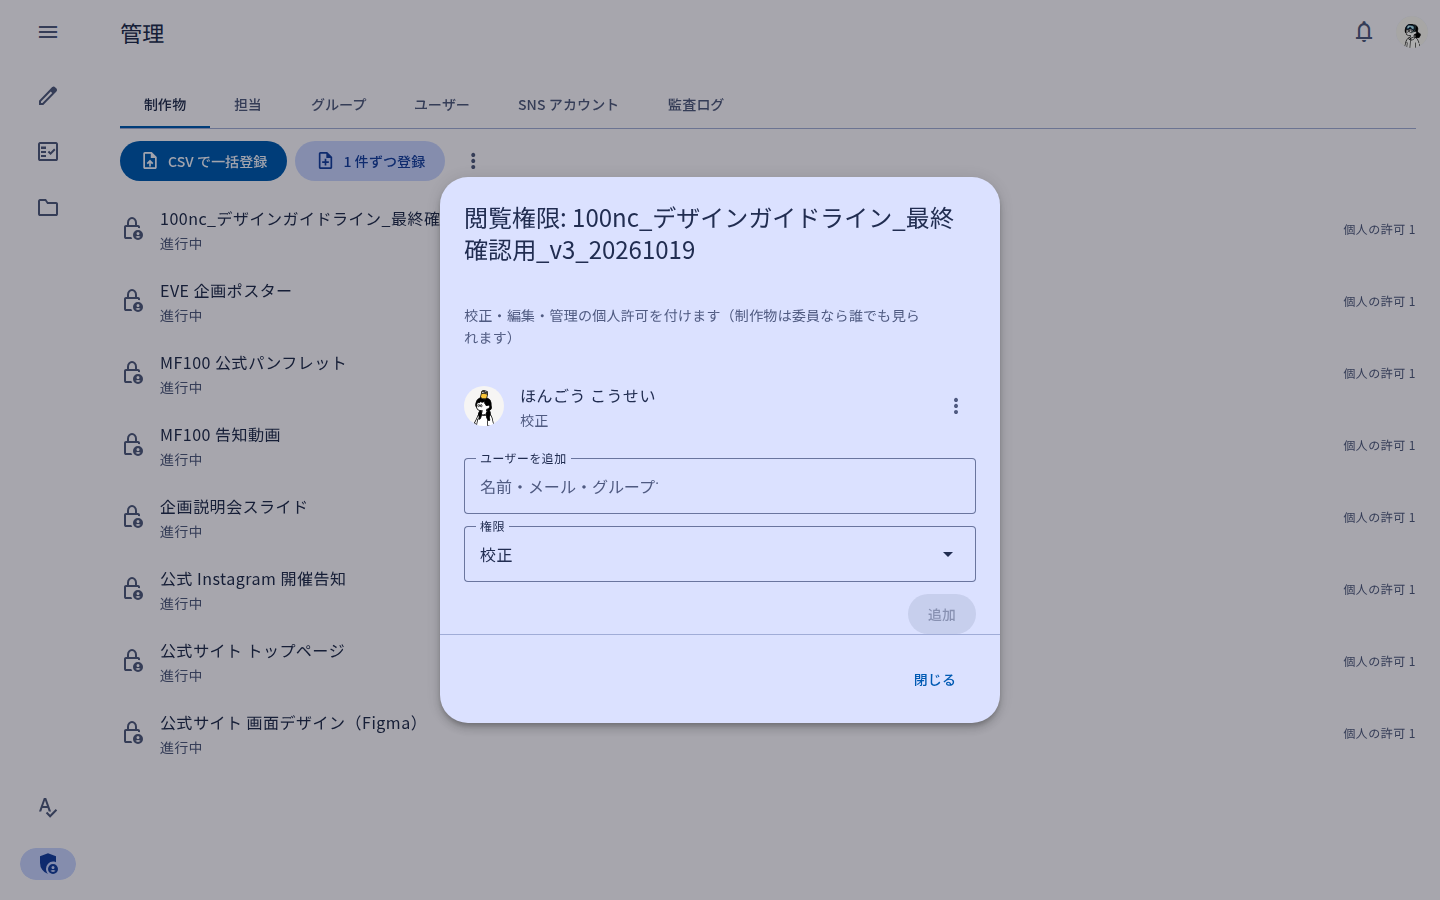
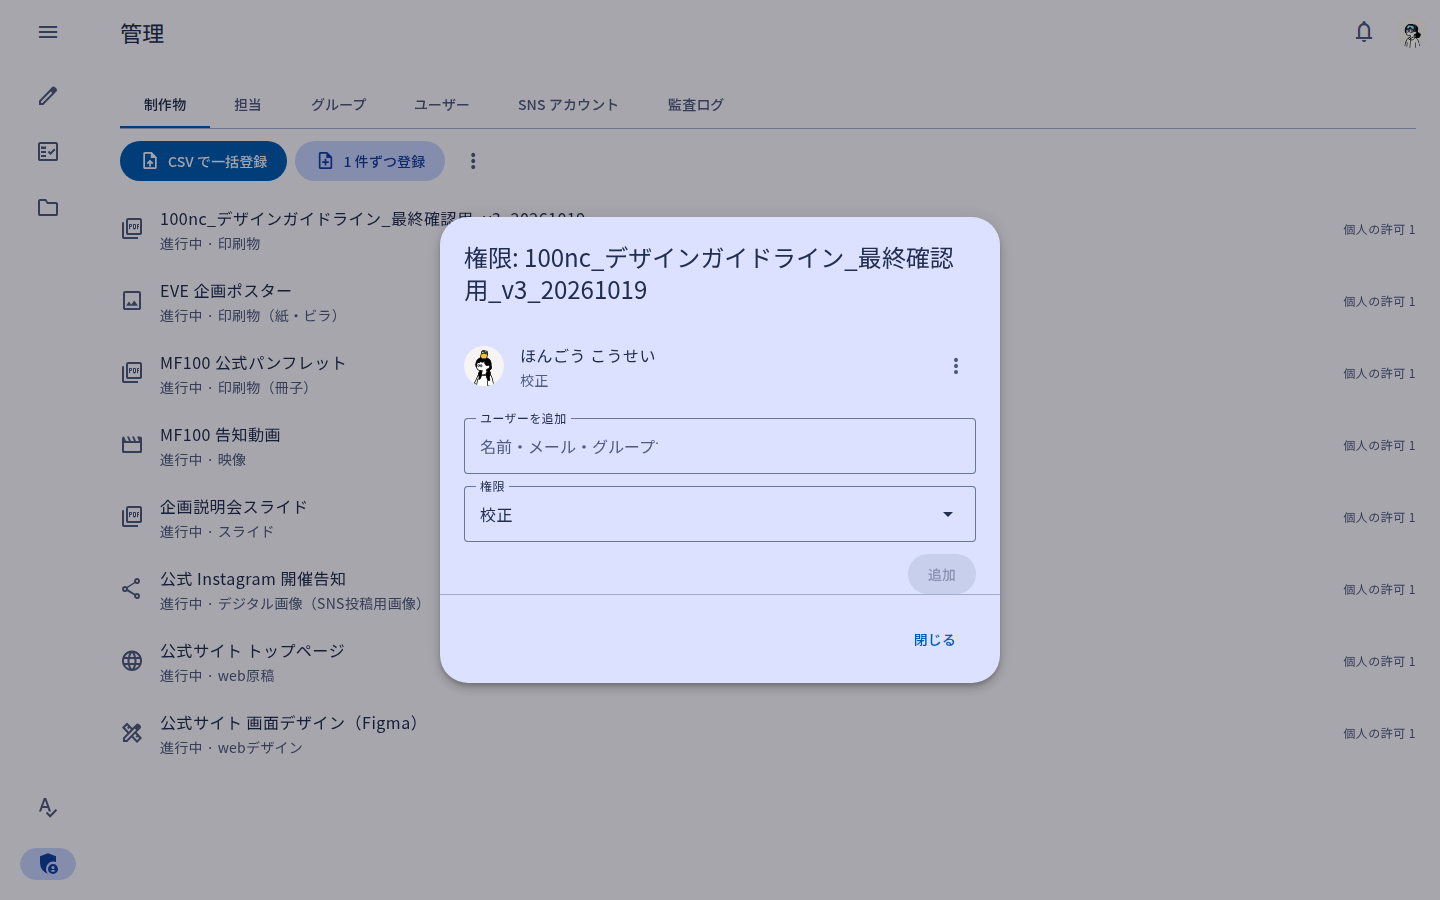
fix(web): ACL UI 文言・管理リストアイコン・PR191 スクショ再撮
- ダイアログ見出しを「権限: <題名>」、AclPanel/情報タブ/管理の「閲覧」表記を除去
- 説明文パラagraphを削除、管理リストは媒体アイコン（lock_person/鍵を廃止）
- adminWorks に mediaType を返す、stack-pr-acl-ui-capture で before/after 再撮

diff --git a/apps/web/e2e/specs/stack-pr-acl-ui-capture.spec.ts b/apps/web/e2e/specs/stack-pr-acl-ui-capture.spec.ts
@@ -1,0 +1,119 @@
+import { mkdirSync } from "node:fs";
+import { dirname, resolve } from "node:path";
+import { fileURLToPath } from "node:url";
+import type { Page } from "@playwright/test";
+import { expect, PAMPHLET, test, WORKS_ENTRY } from "../support/app";
+
+const here = dirname(fileURLToPath(import.meta.url));
+
+const PHASE = process.env.STACK_PR_ACL_PHASE ?? "after";
+const OUT =
+  process.env.OUT_DIR ??
+  resolve(here, `../../../../docs/stack-pr-screenshots/acl-104-106/pr191/${PHASE}`);
+
+mkdirSync(OUT, { recursive: true });
+
+const ADMIN_WORKS_AFTER = 'm3e-action-list[aria-label="制作物ごとの権限"] m3e-list-action';
+const ADMIN_WORKS_BEFORE =
+  'm3e-action-list[aria-label="制作物ごとの閲覧権限"] m3e-list-action';
+
+async function waitForDialogFullyOpen(page: Page) {
+  await page.locator("m3e-dialog[open]").waitFor({ state: "visible" });
+  await page.evaluate(async () => {
+    const deadline = performance.now() + 8000;
+    const ok = (el: Element | null) => {
+      if (!el) return false;
+      const s = getComputedStyle(el as HTMLElement);
+      return s.visibility !== "hidden" && s.display !== "none" && Number(s.opacity) >= 0.99;
+    };
+    while (performance.now() < deadline) {
+      const d = document.querySelector("m3e-dialog[open]");
+      if (ok(d)) {
+        const panel = d?.shadowRoot?.querySelector(".container, .dialog, [part='container']") ?? d;
+        if (ok(panel)) return;
+      }
+      await new Promise((r) => requestAnimationFrame(r));
+    }
+    throw new Error("dialog did not reach full opacity");
+  });
+}
+
+async function shot(page: Page, app: { settle: () => Promise<void> }, file: string) {
+  await app.settle();
+  await page.screenshot({ path: resolve(OUT, file) });
+}
+
+/** PR #191 UI: ACL ダイアログ・管理リスト・制作物一覧・編集フォーム・情報タブ */
+test.describe("stack PR acl UI screenshots", () => {
+  test.use({ reducedMotion: "reduce" });
+
+  test(`surfaces ${PHASE}`, async ({ app, page }) => {
+    await app.start();
+
+    const adminWorks = PHASE === "after" ? ADMIN_WORKS_AFTER : ADMIN_WORKS_BEFORE;
+
+    await app.signInAs("mock-nogiku-admin");
+    await app.go("/works");
+    await app.settle();
+    if (PHASE === "after") {
+      const row = page.locator(WORKS_ENTRY).first();
+      await expect(
+        row.locator("m3e-icon[name='lock']").or(row.locator(".works-table__lock")),
+      ).toHaveCount(0);
+    }
+    await shot(page, app, "02-works-list.png");
+
+    await app.go("/admin");
+    await page.waitForSelector(adminWorks);
+    await shot(page, app, "13-admin-works.png");
+
+    await page.locator(adminWorks).first().click();
+    await page.waitForSelector("m3e-dialog[open] .acl");
+    const header = page.locator("m3e-dialog[open] [slot='header']");
+    if (PHASE === "after") {
+      await expect(header).toContainText("権限:");
+      await expect(header).not.toContainText("閲覧");
+      const acl = page.locator("m3e-dialog[open] .acl");
+      await expect(acl).not.toContainText("制作物は委員なら誰でも");
+      await expect(page.locator("m3e-dialog[open] m3e-icon[name='lock']")).toHaveCount(0);
+    } else {
+      await expect(header).toContainText("閲覧権限");
+    }
+    await waitForDialogFullyOpen(page);
+    await shot(page, app, "12-acl.png");
+    await page
+      .locator('m3e-dialog[open] [slot="actions"] m3e-button', { hasText: "閉じる" })
+      .click();
+    await app.settle();
+
+    await app.signInAs("mock-nogiku-manager");
+    await app.openWork(PAMPHLET);
+    await app.drawer("情報");
+    await page.locator(".drawer__body").evaluate((el, phase) => {
+      const sel =
+        phase === "after"
+          ? ".info-tab__section[aria-label='権限']"
+          : ".info-tab__section[aria-label='閲覧権限']";
+      el.querySelector(sel)?.scrollIntoView({ block: "start" });
+    }, PHASE);
+    if (PHASE === "after") {
+      await expect(page.locator(".info-tab__section[aria-label='権限']")).toBeVisible();
+      await expect(page.getByRole("heading", { name: "閲覧権限" })).toHaveCount(0);
+    } else {
+      await expect(page.getByRole("heading", { name: "閲覧権限" })).toBeVisible();
+    }
+    await shot(page, app, "06-editor-info.png");
+
+    await page.getByRole("button", { name: "編集" }).click();
+    await page.waitForSelector("m3e-dialog[open] m3e-input-chip");
+    if (PHASE === "after") {
+      await expect(page.locator("m3e-dialog[open]")).not.toContainText("機密区分");
+    }
+    await waitForDialogFullyOpen(page);
+    await shot(page, app, "15-work-edit.png");
+    await page
+      .locator('m3e-dialog[open] [slot="actions"] m3e-button', { hasText: "キャンセル" })
+      .click();
+    await app.settle();
+  });
+});

diff --git a/apps/web/src/routes/_app/admin.tsx b/apps/web/src/routes/_app/admin.tsx
@@ -43,6 +43,16 @@ const tabItems: { id: Tab; label: string }[] = [
   { id: "audit", label: "監査ログ" },
 ];
 const groupsOnly = tabItems.filter((t) => t.id === "groups");
+const adminWorkIcon: Record<string, string> = {
+  pdf: "picture_as_pdf",
+  image: "image",
+  document: "article",
+  sns: "share",
+  video: "movie",
+  web: "language",
+  figma: "design_services",
+  other: "draft",
+};
 const searchFor = (t: Tab) => (t === "works" ? {} : { view: t });
 
 export const Route = createFileRoute("/_app/admin")({
@@ -179,7 +189,7 @@ function Admin() {
           ) : works.length === 0 ? (
             <div className="empty">制作物がありません</div>
           ) : (
-            <M3eActionList className="list" aria-label="制作物ごとの閲覧権限">
+            <M3eActionList className="list" aria-label="制作物ごとの権限">
               {[...works]
                 .sort((a, b) => a.title.localeCompare(b.title, "ja"))
                 .map((w) => (
@@ -188,9 +198,16 @@ function Admin() {
                     className={`list__item ${w.lifecycle === "finalized" || w.lifecycle === "cancelled" ? "list__item--done" : ""}`}
                     onClick={() => setAclFor(w)}
                   >
-                    <M3eIcon slot="leading" name="lock_person" />
+                    <M3eIcon
+                      slot="leading"
+                      name={adminWorkIcon[w.mediaType] ?? "draft"}
+                      aria-hidden="true"
+                    />
                     <span className="list__headline">{w.title}</span>
-                    <span slot="supporting-text">{lifecycleLabel[w.lifecycle] ?? w.lifecycle}</span>
+                    <span slot="supporting-text">
+                      {lifecycleLabel[w.lifecycle] ?? w.lifecycle}
+                      {w.category ? ` · ${w.category}` : ""}
+                    </span>
                     <span slot="trailing" className="meta num">
                       個人の許可 {w.activeGrantCount}
                     </span>
@@ -309,7 +326,7 @@ function Admin() {
       ) : null}
       <ExportStatsDialog open={exporting} onClose={() => setExporting(false)} />
       <M3eDialog open={aclFor !== null} onClosed={() => setAclFor(null)} closeLabel="閉じる">
-        <span slot="header">閲覧権限: {aclFor?.title}</span>
+        <span slot="header">権限: {aclFor?.title}</span>
         <div className="dialog-body">{aclFor ? <AclPanel workId={aclFor.id} /> : null}</div>
         <div slot="actions" className="row">
           <M3eButton variant="text" onClick={() => setAclFor(null)}>

diff --git a/apps/web/src/features/work/AclPanel.tsx b/apps/web/src/features/work/AclPanel.tsx
@@ -55,15 +55,10 @@ export function AclPanel({ workId, readOnly = false }: { workId: string; readOnl
       permission: p,
     });
   });
-  if (grants === undefined) return <Loading size="small" label="閲覧権限を読み込んでいます" />;
+  if (grants === undefined) return <Loading size="small" label="権限を読み込んでいます" />;
   const active = grants.filter((g) => g.revokedAt === undefined);
   return (
     <div className="acl">
-      {readOnly ? null : (
-        <p className="muted small">
-          校正・編集・管理の個人許可を付けます（制作物は委員なら誰でも見られます）
-        </p>
-      )}
       {active.length === 0 ? (
         <p className="muted small">個人の許可はありません</p>
       ) : (
@@ -158,7 +153,7 @@ export function AclPanel({ workId, readOnly = false }: { workId: string; readOnl
           onClosed={() => setHistory(false)}
         >
           <span slot="header">変更履歴</span>
-          <M3eList className="list" aria-label="閲覧権限の変更履歴">
+          <M3eList className="list" aria-label="権限の変更履歴">
             {[...grants]
               .sort((a, b) => b.grantedAt - a.grantedAt)
               .map((g) => (

diff --git a/apps/web/src/lib/errors.ts b/apps/web/src/lib/errors.ts
@@ -5,7 +5,7 @@ import { lifecycleLabel, resolutionLabel } from "./labels";
 const messages: Record<string, string> = {
   unauthenticated: "サインインしてください",
   forbidden: "権限がないか、対象が見つかりません",
-  acl_requires_system_admin: "閲覧権限を変更できるのはシステム管理者だけです",
+  acl_requires_system_admin: "権限を変更できるのはシステム管理者だけです",
   acl_invalid: "追加する人を確かめてください。空の選択や、いない人は追加できません。",
   work_not_editable: "校了・中止した制作物の校正者は変更できません。",
   acl_group_principal_not_enabled: "グループには権限を付けられません。個人を選んでください。",

diff --git a/apps/web/e2e/specs/stack-pr-acl-104-capture.spec.ts b/apps/web/e2e/specs/stack-pr-acl-104-capture.spec.ts
@@ -48,7 +48,7 @@ test.describe("stack PR acl 104 screenshots", () => {
     await app.signInAs("mock-nogiku-admin");
     await app.go("/admin");
     await app.settle();
-    const adminWorks = 'm3e-action-list[aria-label="制作物ごとの閲覧権限"] m3e-list-action';
+    const adminWorks = 'm3e-action-list[aria-label="制作物ごとの権限"] m3e-list-action';
     await page.waitForSelector(adminWorks);
     await page.locator(adminWorks).first().click();
     await page.waitForSelector("m3e-dialog[open] .acl");

diff --git a/apps/web/src/features/editor/InfoTab.tsx b/apps/web/src/features/editor/InfoTab.tsx
@@ -554,8 +554,8 @@ export function InfoTab({
       ) : null}
 
       {can.viewAudit ? (
-        <section className="info-tab__section" aria-label="閲覧権限">
-          <h2 className="info-tab__h">閲覧権限</h2>
+        <section className="info-tab__section" aria-label="権限">
+          <h2 className="info-tab__h">権限</h2>
           <AclPanel workId={w.id} readOnly={!can.manageAcl} />
         </section>
       ) : null}

diff --git a/apps/web/e2e/specs/roster-acl.spec.ts b/apps/web/e2e/specs/roster-acl.spec.ts
@@ -27,7 +27,7 @@ test.describe("校正者名簿と閲覧権限", { tag: "@smoke" }, () => {
     await app.signInAs("mock-nogiku-admin");
     await app.go("/admin");
     await page
-      .locator('m3e-action-list[aria-label="制作物ごとの閲覧権限"] m3e-list-action', {
+      .locator('m3e-action-list[aria-label="制作物ごとの権限"] m3e-list-action', {
         hasText: title,
       })
       .click();

diff --git a/apps/convex/convex/acl.ts b/apps/convex/convex/acl.ts
@@ -119,6 +119,7 @@ export const adminWorks = query({
         title: w.title,
         legacyId: w.legacyId ?? null,
         category: w.category,
+        mediaType: w.mediaType,
         lifecycle: w.lifecycle,
         activeGrantCount: grants.filter((g) => g.revokedAt === undefined).length,
       });
